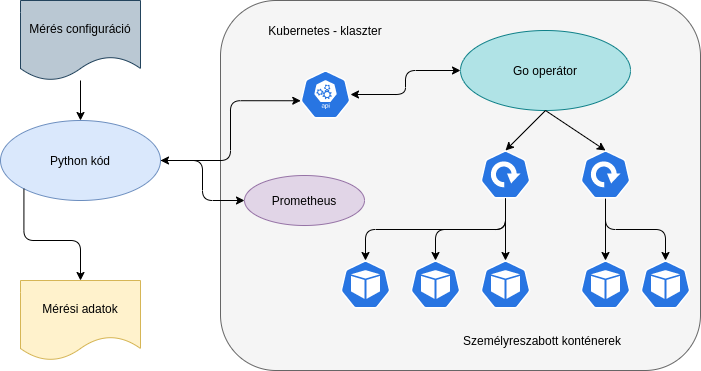
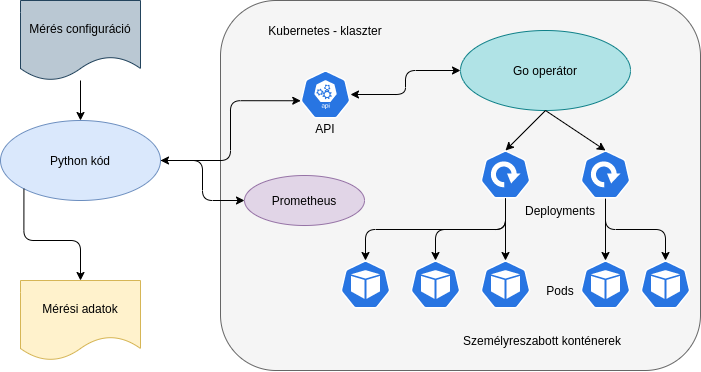
Extend thesis

diff --git a/thesis/content/system.tex b/thesis/content/system.tex
@@ -29,10 +29,10 @@ Az elkészült rendszerhez szükséges részek forráskódjai megtalálhatóak a
 %----------------------------------------------------------------------------
 \section{Korábbi munkák}
 %----------------------------------------------------------------------------
-A korábbi projekttárgyak keretén belül már foglalkoztam hasonló kérdéskörrel, így már volt az egyes eszközök használatához tapasztalat és implementáció is, amiből tovább lehetett haladni. 
-Önálló labor tárgyban megismerkedtem a Go programozási nyelvvel, és elkészítettem egy Kubernetes operátort, ami képes egyedi erőforrás definíciók feldolgozására és ez alapján képes beépített objektumokat létrehozni.
+A korábbi projekttárgyak keretén belül már foglalkoztam hasonló kérdéskörrel, így már volt az egyes eszközök használatához tapasztalat és implementáció is, amiből ki lehetett indulni. 
+Önálló labor tárgyban megismerkedtem a Go programozási nyelvvel, és elkészítettem egy Kubernetes operátort, ami képes egyedi erőforrás definíciók feldolgozására és ez alapján képes beépített objektumokat létrehozni. A félév elején elején ezt tovább kellett bővíteni, hogy képes legyen skálázót is létrehozni valamint javítani kellett a megbízhatóságán is.
 
-Korábban készítettem már egy Docker képfájl is, ami a jelenlegi rendszerben felhasználttal azonos céllal született, hogy szabadon konfigurálható paraméterezés alapján szolgálja ki a beérkező kéréseket.
+Korábban készítettem már egy Docker képfájl is, ami a jelenlegi rendszerben felhasználttal azonos céllal született, hogy szabadon konfigurálható paraméterezés alapján szolgálja ki a beérkező kéréseket. Az így megírt Go alapú webszervert is a félév során tovább kellett bővíteni, személyreszabni, hogy a valósághűbb eredményeket szolgáltasson.
 
 %----------------------------------------------------------------------------
 \section{Operátor}
@@ -40,9 +40,17 @@ Korábban készítettem már egy Docker képfájl is, ami a jelenlegi rendszerbe
 Fontos szempontnak tekintettük, hogy egyszerű konfigurációs fájl alapján létre lehessen hozni a szolgáltatáshálót, amit szeretnénk tesztelni. 
 Mivel a Kubernetes fejlesztők tudták, hogy nem tudnak minden igényt kiszolgálni gondoltak arra, hogy a rendszer könnyen kibővíthető legyen. Az operátorok pont erre valóak. Létrehozásukkal külön logikát tudunk implementálni, ami egy egyedi Kubernetes erőforrás objektumra figyel. 
 
-%TODO
+\subsection{Megírása}
+%----------------------------------------------------------------------------
+A klaszter operátorral való kibővítése egy gyakran alkalmazott megoldás, amikor összetettebb alkalmazást vagy logikát kell implementálni. Olyan szinten elterjedt megoldásról van szó, hogy több nyelv és keretrendszer közül lehet választani. Valamint külön weboldal is létezik, ahol össze vannak gyűjtve az egyes alkalmazásokhoz elérhető, korábban megírt operátorok.\citep{operatorhub} A Kubernetes alkalmazási lehetőségei között ezt a megoldást külön mintaként említik.\citep{KubernetesPatterns} 
 
-\subsection{Működése}
+Én a feladat megoldásához az Operator-SDK\citep{operatorSDK} keretrendszerét használtam fel. A keretrendszerrel könnyen írhatunk Kubernetes operátorokat. Ezt megtehetjük Helm, Ansible vagy Go segítségével is. Értelemszerűen a legnagyobb rugalmasságot a Go programozási nyelvvel érhetjük el, itt van lehetőségünk nagyon mély szinten belenyúlni a klaszter működébe. Én is ezt a megoldást választottam a korábbi projekttárgy keretén belül és sikerült megszerezni az alapvető ismeretket. A korábban megírt alkalmazás több hibát is tartalmazott, így a félévben ezeket ki kellett javítani és új funkciókkal bővítettem ki. 
+
+Sajnos nem sok segédanyag érhető el online formában ezért nehéz belekezdeni. Egyedül a korábban mások által megírt operátorok forráskódja tudott jó indulás lenni.
+
+Több megoldás is létezik az elkészült operátorunk futtatására. Futtathatjuk a klaszteren kívülről, mint alkalmazást, illetve a klaszteren belülről is. Utóbbi esetben készíteni kell az alkalmazásunkból egy Docker képfájlt, ami aztán külön kapszulában fog futni. Illetve klaszteren belül lehetőségünk van egy úgynevezett operátor életciklus kezelővel (OLM) is megtenni ezt. Az utóbbi megoldás a legfejlettebb úgy kell elképzelni mint egy külön csomagkezelő csak a klaszteren belül, az operátoroknak. A félévben én a klaszteren kívüli megoldást használtam, mivel az operátort is folyamatosan fejleszetni kellett. 
+
+\subsection{Használata}
 %----------------------------------------------------------------------------
 A \ref{servicegraph_example} kódrészlet mutat egy példát a szolgáltatásháló definíciójára. Számunkra elég végiggondolni, hogy milyen szolgáltatásokat szeretnénk, hogyan kövessék egymást, milyen erőforrást biztosítsunk számukra. Miután ezek megvannak készítünk belőle egy \textit{yaml} dokumentumot.
 
@@ -68,10 +76,23 @@ servicegraph.dipterv.my.domain/servicegraph created
 %----------------------------------------------------------------------------
 \section{Go konténer}
 %----------------------------------------------------------------------------
-A korábban látott módon lehetőségünk van tetszőleges szolgáltaásokat elindítani, azonban hogy az adott szolgáltatásoknak további paraméterek tudjunk átadni, olyan alkalmazás kell ami tudja kezelni őket. Például: milyen végpontokra figyeljenek, milyen kiszolgálási idővel dolgozzanak, mennyi erőforrást használjanak fel. Erre a feladatra létrehoztam külön egy Go alapú webalkalmazást. 
-A paraméterek átadására indításkor van lehetőség és futás közben figyelembe veszi ezeket. Beépítettként tartalmaz egy processzor intenzív algoritmust, amit megadott alkalommal lefuttat egy-egy kérés során. 
+A korábban látott módon lehetőségünk van tetszőleges szolgáltaásokat elindítani, azonban hogy az adott szolgáltatásoknak további paraméterek tudjunk átadni, olyan alkalmazás kell ami tudja kezelni őket. Például: milyen végpontokra figyeljenek, milyen kiszolgálási idővel dolgozzanak, mennyi erőforrást használjanak fel.
+A feladat megoldására létrehoztam egy Go alapú webalkalmazást, mely induláskor átveszi a szükséges paramétereket. A webszerverhez beérkező kérések pedig a megadott paraméterek által specifikált módon fognak végrehajtódni. 
 
-%TODO
+Az alkalmazás elkészítéséhez szintén rendelkezésre állt egy kódbázis, amit tovább kellett fejleszteni. Korábban egy \textit{http} alapú üzenetet küldött vissza az alkalmazás, ami számunkra könnyebben olvasható, azonban a gépek nehezebben kezelik. Így kicsit változtatni kellett a kódon és jelenleg \textit{json} üzenetet kapunk vissza.
+
+Lehetőségünk van a http kérés kiszolgálása közben további webalkalmazások felé továbbkérdezni. Ez a funkció ad lehetőséget, hogy a klaszeteren belül tetszőleges szolgáltatáshálókat valósítsunk meg. Ezt a funkciót is kicsit fejleszteni kellett és az egyes lekérdezéseket aszinkron hívásra cseréltem le. Ezáltal miközben várunk a kint meghívott rendszerek válaszára közben végezhetjük a saját csomópontban a konfigurációban megadott számításokat. 
+
+Az elkészült alkalmazást fel kellett készíteni, hogy a Kubernetesben tudjuk futtatni. Ehhez Docker képfájlt készítettem belőle és miután elláttam a megfelelő címkékkel feltöltöttem\citep{dockerContainer} a Docker Hub oldalra, ami egy ingyenes és publikus konténer adattár. \\
+
+\lstset{caption=Kénténer futtatása és válasza, label=describe_pod}
+\lstinputlisting{figures/describe_pod.sh}
+
+A \ref{describe_pod} sorszámú kódrészleten egy, az elkészült Docker konténert futtató kapszula leírásának részlete látszik. Az indításhoz a korábban látott, \ref{servicegraph_example} kódrészlet konfigurációját használtam fel. Érdemes megfigyelni, hogy az egyes  paraméterek hogyan képződnek le a konténerhez. Például átadásra kerül a szolgáltatás neve, hogy melyik porton fog figyelni, melyik végpontok havására kell válaszolnia és a hozzá tartozó egyéb paraméterek.
+
+A kódrészleten látott második paranccsal létrehozunk egy újabb kapszulát a klaszterben. Látható, hogy interaktív módban indítottuk el, így kaptunk egy felületet, ahonnan lekérdezést lehet indítani a \textit{front-end} kapszula felé. Ez jó megoldás abban az esetben, ha ki szeretnénk próbálni, hogyan működik az alkalmazásunk. A \verb+kubectl run+ parancs alatt látható, hogy a \textit{curl} alkalmazás kérésére milyen választ kaptunk. A válasz \textit{json} formátumban tartalmazza a lekérdezés főbb paramétereit. Látható, hogy melyik végpontra érkezett, milyen konfiguráció van beállítva a végponthoz.
+
+
 
 %----------------------------------------------------------------------------
 \section{Mérés vezénylése}

diff --git a/thesis/content/kubernetes.tex b/thesis/content/kubernetes.tex
@@ -13,9 +13,48 @@ Ahogy egyre többen kezdték megismerni és használni a konténerizációs tech
 
 Ezzel a problémával találkozott a Google is és kezdődött egy platform fejlesztése, ami képes a fenti feladatok megoldására. Eleinte ez a \textit{Borg}\citep{Borg} nevet viselte. Ezt 2014-ben a Google nyílt forráskódúvá tette immáron Kubernetes néven. A projektet a \textit{Cloud Native Computing Foundation (CNCF)} vette gondozásába. Innentől kezdve bárki szabadon elérheti és bele is fejleszthet. Az elmúlt 6 év alatt hatalmas fejlődésen ment keresztül és már a $22$.-ik kiadásánál tart.
 
+Viszonylag fiatal rednszerről van tehát szó, azonban a VMware kutatásából\citep{VMwareSurvey} is sok érdekes dolog bontakozik ki. Egyre többen térnek át a Kubrenetesre és futtatják benne a konténerizált infrastruktúrájukat. Látható, hogy nem egy rövidtávon elmúló trendről van szó és még mindig felívelő ágban van. A kutatásban résztvevők jelentős részére hozott könnyebbségeket főként az erőforrás gazdálkodásban és a fejlesztési ciklusok rövidítésében. Mindössze a megkérdezettek 5\% nem számolt be érezhető előnyről.  
+
 %----------------------------------------------------------------------------
 \section{Felépítése}
 %----------------------------------------------------------------------------
+
+\subsection{Klaszter elemei}
+%----------------------------------------------------------------------------
+Kubernetes alatt általában egy teljes klasztert szoktak érteni. Ennek a rendszernek az egyes részeit és azok feladatát szeretném bemutatni.  
+
+\subsubsection{Csomópontok}
+A legtöbb klaszter több csomópontot (node) tartalmaz. Ezek lehetnek akár egy egész szerver vagy egy szerveren futtatott virtuális gép is. Itt fognak futni a később részletesen tárgyalt kapszulák, amik az alkalmazásunkat valósítják meg. Ezért itt futniuk kell azoknak a szolgáltatásoknak, amik ezt lehetővé fogják tenni. A csomópontok konfigurációját a vezérlő sík (control plane) végzi. A \ref{k8s_nodes} sorszámmal ellátott kódrészleten láthatjuk, hogy az általunk későbbiekben használt klaszter esetében milyen csomópontok vannak. Fontos, hogy az egyes node nevek egymástől különállóak legyenek. 
+
+Feladatkörét tekintve két különböző típusú node lehet. Egyik, ami a vezérlő síkot biztosítja, ő az úgynevett \textit{master} illetve a másik, ahol csak kapszulák futhatnak, ezek a \textit{worker} típusú csomópontok. Látható, hogy a példaként hozott kódrészletben a \verb+dipterv1+ névvel ellátott node van mester szerepben. Az utóbbi időben egyre jobban elmosódott a határvonal és több csomóponton van megvalósítva a vezérlő sík, illetve ezeken is lehet kapszulákat futtatni. Valamint a hivatalos dokumentációból fokozatosan tűnik el a master/worker megnevezések.\\
+
+\lstset{caption=Később használt klaszter csomópontjai, label=k8s_nodes}
+\lstinputlisting{figures/kubectl_get_nodes.sh}
+
+Az egyes csomópontoknak biztosítani kell, hogy futhassanak rajtuk kapszulák. Ezért minden egyes node rendelkezik az alábbi komponsensekkel:
+
+\paragraph{Kubelet} Minden node rendelkezik egy \textit{kublet} nevű ügynökkel, akinek a feladat, hogy az adott csomópontra ütemezett konténerek rendesen, az elvárt módon fussanak. Ezt úgy tudja megtenni, hogy az API szerveren keresztül kap egy pod leírót és az abban leírtak alapján kezeli a konténereket. Ezen felül feladata, hogy az általa összegyűjtött információkat jelentse a vezérlő sík felé, ezzel lehetővé téve az új konténerek ütemezését csomópontokra. 
+
+\paragraph{Kube-proxy} A \textit{kube-proxy} szintén része minden csomópontnak, ahogy az a \ref{fig:k8s_components} ábrán is látszik. Ezen komponenes feladata az adott node hálózatát karban tartani. Ezt úgy tudja megtenni, hogy operációs rendszer szintjén hoz létre és tartja karban a hálózati csomagokra vonatkozó szabályokat.
+
+\paragraph{Konténert futtató környezet} Mivel az egyes kapszulák konténereket tartalmaznak ezért szükség van egy olyan környezetre, ami képes futtatni ezeket a konténereket. Mai napig a legelterjedtebb a Docker, de a Kubernetes ezen kívül még másokat is támogat. 
+
+% Kubernetes cluster components ---------------------------------------------
+\begin{figure}[!ht]
+\centering
+\includegraphics[width=150mm, keepaspectratio]{figures/kubernetes_components.png}
+\caption{Kubernetes klaszter elemei\citep{KubernetesComponents}}
+\label{fig:k8s_components}
+\end{figure}
+
+\subsubsection{Vezérlő sík}
+A Kubernetesen belül a vezérlő sík felelős a klaszteren belüli döntésekért. Feladata például meghatározni, hogy az újonnan létrehozandó kapszulák melyik csomóponton induljanak el. A \ref{fig:k8s_components} ábrán is láthatjuk a vezérlő síkot kék szaggatott vonnallal keretezve.
+
+\paragraph{API szerver} A klaszter központi egysége. Minden művelet rajta keresztül történik. Ő felelős a beérkező kérések hitelesítéséért és továbbításáért a megfelelő rendszerelemek felé. Például a \verb+kubectl+ parancs használatakor is az történik, hogy a kliensünk összeállít és elküld egy üzenetet az API szerverhez, ami megkapja és válaszol rá.
+
+\paragraph{Etcd} Az \textit{etcd} komponense a vezérlő síknak egy elosztott módon működő\citep{raft} kulcs-érték párokat tartalmazó adatbázis. Itt tárolja a klaszter összes saját tulajdonságát, például az egyes objektumok állapotait is. Ezáltal a korrábi példaként említett \verb+kubectl+ lekérdezésünk is ebből az adatbázisból kiolvasott értékeket fogja megkapni.
+
+\paragraph{Ütemező} Az ütemező (\textit{kube-scheduler}) feladata, meghozni a döntést, hogy egy új pod melyik csomóponton kerüljön létrehozásra. Ez egy igazán izgalmas feladat, hiszen figyelembe kell vennie a rendszer jelenlegi foglaltságát, illetve a kapszula létrehozásakor külön meg lehet adni megkötéseket a node felé. Ilyen megkötés vonatkozhat a csomópont szoftverére vagy hardverére is. 
 
 %TODO erőforrások: CPU és memoria
 \subsection{Erőforrások}
@@ -42,6 +81,7 @@ paramétereket és ezalapján választja ki, hogy melyik csomóponton fog futni.
 A Kubernetes egyik erőssége, hogy az átlagos felhasználás esetében nem kell törődni a rendszer felépítésével, hiszen nekünk csak deklaratív módon meg kell létrehozni és kezelni bizonyos erőforrásokat, objektumokat.
   
 \paragraph{Pod (kapszula)}
+%\label{par:pod}
 A Kubernetesben megjelenő legkisebb egység. Általában egy konténert futtat, de lehetőségünk van több konténer futtatására is. Általánosságban elmondható, hogy rendszeresen létrejönnek és rendszeresen törölve is lesznek ezek az objektumok, tehát nem tartós életűek. Ez az egész rendszernek tud adni egy 
 
 \paragraph{ReplicaSet} 
@@ -63,7 +103,7 @@ leírásokat hozzunk létre és ezt egy logika deklaratív módon feldolgozza.
 %----------------------------------------------------------------------------
 \section{Skálázás}
 %----------------------------------------------------------------------------
-A felhős infrastruktúra egyik legcsábítóbb előnye, hogy az alkalmazásunk képes adaptálódni a külvilág felől érkező kérésekhez. Ez azt jelenti, hogy ha több felhasználót kell egyszerre kiszolgálni, akkor a rendszer automatikusan növeli a kiszolgálásra fordított erőforrások mennyiségét. Ezzel a megoldással elérhetjük, hogy a végfelhasználó ne vegyen észre minőségbeli csökkenést és a kevésbé intenzív időkben pedig nem foglalunk feleslegesen erőforrást, ami az üzemeltetőnek is jól belátható anyagi érdeke.
+A felhő alapú infrastruktúra egyik legcsábítóbb előnye, hogy az alkalmazásunk képes adaptálódni a külvilág felől érkező kérésekhez. Ez azt jelenti, hogy ha több felhasználót kell egyszerre kiszolgálni, akkor a rendszer automatikusan növeli a kiszolgálásra fordított erőforrások mennyiségét. Ezzel a megoldással elérhetjük, hogy a végfelhasználó ne vegyen észre minőségbeli csökkenést és a kevésbé intenzív időkben pedig nem foglalunk feleslegesen erőforrást, ami az üzemeltetőnek is jól belátható anyagi érdeke.
  
 Alapvetően két különböző skálázási módszert lehet elkülöníteni. Az egyik a vertikális, míg a másik a horizontális skálázás. Ezekről a későbbiekben bővebben lesz szó. 
 
@@ -107,7 +147,8 @@ szolgáltatás esetén nem túl előnyös, hiszen ezidő alatt kevesebb egység 
 % Skálázás módjai ábra -------------------------------------------------------
 \begin{figure}[!ht]
 \centering
-\includegraphics[width=150mm, keepaspectratio]{figures/scaling_types.png}
+\includegraphics[width=100mm, keepaspectratio]{figures/scaling_types.png}
 \caption{Vertikális és horizontális skálázás}
 \label{fig:scaling}
 \end{figure}
+

diff --git a/thesis/content/measurements.tex b/thesis/content/measurements.tex
@@ -19,7 +19,7 @@ Amikor a fejlesztési rész kezdett alábbhagyni kellett egy rendes környezet, 
       \item \textbf{VM igénylés a koliban}: A Schönherz kollégiumban lévő Kollégiumi Számítástechnikai Körtől lehet igényelni virtuális gépeket, így sikerült lebeszélni, hogy a projektfeladat végéig biztosítanak számomra három gépet. Hátrány lehet, hogy öntevékeny a kör így probléma esetén kérdéses a megoldás gyorsasága. 
 \end{itemize}		
 
-A fenti opciók közül számomra a harmadik volt a legszimpatikusabb így kaptam is három teljesen új virtuális gépet. Telepítéshez a Debian (v10 - Buster) operációs rendszert választottam, mert stabil, megbízható és széles körben támogatott. 
+A fenti opciók közül számomra a negyedik volt a legszimpatikusabb így kaptam is három teljesen új virtuális gépet. Telepítéshez a Debian (v10 - Buster) operációs rendszert választottam, mert stabil, megbízható és széles körben támogatott. 
 
 \begin{center}
 \begin{tabular}{ c||cccc| } 
@@ -104,17 +104,28 @@ Fontos szempont volt, hogy minél könnyebben használható legyen az alkalmazá
 Az alkalmazás indításakor meg kell adni, hogy hova vannak mentve a korábbi mérések során készült kimeneti fájlok. Itt egy-egy mérés jelentése, hogy a Fortio adott darabszámú lekérdezést generál másodpercenként fix ideig. Tehát egy teszteset futtatása több ilyen értelemben vett mérést tartalmaz, hiszen egy skálán megy végig a rendszer, ahol a minimális QPS értéktől megadott lépésközzel halad a maximális QPS értékig. 
 Egyesével elkezdi beolvasni a mérési eredményeket és minden fájlból készít egy "tisztázott" eredményt. Ebben már csak az adott grafikon kirajzolásához nélkülözhetetlen értékeket tartalmazza. Például előfordul, hogy a Prometheus eredményében szerepel olyan pod is, ami nem vett részt az adott mérésben, mert még a korábbiból maradt ott. Az ilyen eseteket észlelni kell és kiszedni az értékeit, ne okozzanak anomáliákat. 
 
-A kapott eredményekből készült grafikon látható az \ref{fig:example_plot} ábrán. A mérések során a szolgáltatáshálóban két különböző feladatot ellátó szolgáltatás szerepelt. Volt egy kintről elérhető \textit{front-end} szolgáltatást szimuláló egység, ami a feltevéseink alapján nem használt sok erőforrást, és minden hozzá beérkező kérést továbbított a \textit{back-end} felé, ami viszont a szimulációban egy processzorigényes műveletet hajtott végre. 
+A kapott eredményekből készült grafikon látható az \ref{fig:example_plot} és \ref{fig:example_responsetime} ábrán. A mérések során a szolgáltatáshálóban két különböző feladatot ellátó szolgáltatás szerepelt. Volt egy kintről elérhető \textit{front-end} szolgáltatást szimuláló egység, ami a feltevéseink alapján nem használt sok erőforrást, és minden hozzá beérkező kérést továbbított a \textit{back-end} felé, ami viszont a szimulációban egy processzorigényes műveletet hajtott végre. 
 
-A kapott ábráról leolvasható, hogy az átlagos válaszidő a mérés során nem változott érdemben. A mérés során nem vittünk a rendszerbe mesterséges késleltetést, csak a kötelező műveletek elvégzését vártuk meg. Látható, hogy a kevésbé erőforrás-igényes \textit{front-end} processzor felhasználása lassan de folyamatosan nő egészen addig, amíg a \textit{back-end} is tudja növelni a processzor felhasználását. Ez körülbelül 125 QPS-ig tart. Érdemes figyelembe venni, hogy az $X$ tengely az igényelt lekérdezések darabszámát mutatja, nem a rendszer által valóságban kiszolgált kérések mennyiségét. \\
+A kapott \ref{fig:example_responsetime} ábráról leolvasható, hogy az átlagos válaszidő a mérés során nem változott érdemben, végig kellően alacsony maradt. Fontos megjegyezni, hogy a mérés során nem vittünk a rendszerbe mesterséges késleltetést, csak a kötelező műveletek elvégzését vártuk meg, így jött ki az állandó válaszidő.
+
+A másik, \ref{fig:example_plot} grafikonon látható, hogy a kevésbé erőforrás-igényes \textit{front-end} processzor felhasználása lassan de folyamatosan nő egészen addig, amíg a \textit{back-end} is tudja növelni a processzor felhasználását. Ez körülbelül 125 QPS-ig tart. Ilyenkor a \textit{back-end} eléri az indításkor beállított erőforrás limitációt és emiatt nem tud több beérkező igényt kiszolgálni.  Emiatt a felhasználói forgalmat generáló Fortio sem fog tudni több kérést a rendszer felé küldeni, mert meg kell várja, mire a front-end válaszol, de a front-end csak azután válaszol, hogy meghívta a végeletkig megterhelt back-end szolgáltatást.
+
+Érdemes figyelembe venni, hogy az $X$ tengely az igényelt lekérdezések darabszámát mutatja, nem a rendszer által valóságban kiszolgált kérések mennyiségét. \\
 
 
-% Generált példa ábra -------------------------------------------------------
+% Generált példa ábrák -------------------------------------------------------
 \begin{figure}[!ht]
 \centering
-\includegraphics[width=150mm, keepaspectratio]{figures/example_plot.jpg}
-\caption{\textit{Front-end} és \textit{back-end} egységből álló rendszer eredménye}
+\includegraphics[width=150mm, keepaspectratio]{figures/sample_plot_cpu.jpg}
+\caption{\textit{Front-end} és \textit{back-end} egységből álló rendszer CPU felhasználása}
 \label{fig:example_plot}
+\end{figure}
+
+\begin{figure}[!ht]
+\centering
+\includegraphics[width=150mm, keepaspectratio]{figures/sample_plot_responsetime.jpg}
+\caption{\textit{Front-end} és \textit{back-end} egységből álló rendszer átlagos válaszideje}
+\label{fig:example_responsetime}
 \end{figure}
 
 
@@ -125,4 +136,4 @@ Az eredmények megjelenítésén még lehetne finomítani, mivel jelenleg egy gr
 
 Illetve érdemes elgondolkodni, hogyan kellene kezelni az esetet, ha a rendszer nem tudja kiszolgálni az elvárt lekérdezéseket. Több megoldás is szóba jöhet. Egyik, hogy már a mérések végzése folyamán figyeljük és ha nem tudja teljesíteni, akkor idő előtt leállítjuk a terheléseket. Másik, hogy az $X$ tengelyen a valódi, kiszolgált QPS értéket jelenítjük meg. Ezzel annyi gond lehet, hogy elveszítjük az információt, hogy az adott mérésnél a rendszer már túlterhelt állapotban volt és emiatt vagy alapból ennyi kéréssel terheltünk. Harmadik megoldás, hogy az $X$ tengelyen lévő értékeket addig ábrázoljuk, amíg elvárt módon futottak a mérések.
 
-Másik apróság, ami segítene az eredmények vizualizációjában, ha külön címkét kapna a válaszidő az $Y$ tengelyen.  
+Másik apróság, ami segítene az eredmények vizualizációjában, ha a felhasznált erőforrások és a hozzá kapcsolódó válaszidő egy ábrán lenne, viszont ehhez külön $Y$ tengely fog kelleni, hiszen más a mértékegysége.  

diff --git a/thesis/content/publications.tex b/thesis/content/publications.tex
@@ -12,7 +12,9 @@ A legátfogóbb ismertető a témában \emph{Cloud resource management: A survey
 
 Az alkalmazás mélyebb megismerésével lehetőségünk van előrejelzéseket adni a viselkedésére és ezáltal az erőforrás felhasználást is ügyesebben kezelni. Kritizálják, hogy a legtöbb kutatás elég szűk területet érint és nagyon specifikus kérdéskört vizsgál, miközben figyelmen kívül hagyja a felhős környezet változékonyságát és a valóságnál statikusabb rendszerként vannak kezelve. 
 
-Ötleteket is tudunk meríteni, hogy milyen értékeke érdemes a mérések során figyelembe venni. Példának hozza a processzor, memória, I/O lemez késleltetések, válaszidő, áteresztő képesség. Utóbbi kettő rendszeresen előfordul a szolgáltatási szint megállapodásokban (SLA), ami a felhasználó által érzékelhető szolgáltatási szint (QoE) alapjának is tekinthető. 
+Ötleteket is tudunk meríteni, hogy milyen értékeke érdemes a mérések során figyelembe venni.
+Példaként említi  a processzor, memória, I/O lemez késleltetések, válaszidő, áteresztő képesség
+mérését. Utóbbi kettő rendszeresen előfordul a szolgáltatási szint megállapodásokban (SLA), ami a felhasználó által érzékelhető szolgáltatási szint (QoE) alapjának is tekinthető. 
 Ezek a tulajdonságok vannak összefoglalva a \ref{fig:applicationprofiling} ábrán, ami szintén a cikkben jelent meg.
 
 Gyakran elfelejtődik, de a cikkben hangsúlyozva van, hogy a rendszer monitorozása, döntéshozás és közbeavatkozás önmagukban is jelentenek valamekkora plusz költséget. \\
@@ -30,13 +32,18 @@ Korábban már a tanszéken is foglalkoztak Kubernetesben történő skálázás
 
 A diplomaterv későbbi részében érdekes eredményeket kaphatunk, ha összehasonlítjuk ezt a megoldást a Kubernetes alapértelmezett skálázásával egy komplexebb szolgáltatásháló esetén.
 
-Több cikk\cite{AdaptiveScalingOfPods}\citep{PredictingUsageAndProactiveScaling} is említést tesz arról, hogy a jelenlegi módszertan alapján nehéz eltalálni az optimális erőforrás értékeket és ezzel együtt a skálázást. Ez főként onnan jön, hogy jelenleg a skálázók kevés logikával és metrikával működnek, ezért indításukkor, kézzel kell megadni a szükséges értékeket. Ez igaz az erőforrás felhasználásra is. Ebben az esetben is az alkalmazás üzemeltetőjének kell indítás idejében megadni a paraméterek, amik befolyásolják a kiszolgálás minőségét is. 
+Több cikk\cite{AdaptiveScalingOfPods}\citep{PredictingUsageAndProactiveScaling} is említést tesz
+arról, hogy a jelenlegi módszertan alapján nehéz eltalálni az optimális erőforrás értékeket és ezzel
+együtt a skálázást. Ez főként onnan jön, hogy jelenleg a skálázók kevés logikával és metrikával
+működnek, ezért indításukkor, kézzel kell megadni a szükséges értékeket. Ez igaz az erőforrás
+felhasználásra is. Ebben az esetben is az alkalmazás üzemeltetőja adja meg indítás idejében a
+paramétereket, amik befolyásolják a kiszolgálás minőségét is. 
 
 Érdekes kérdés, ami irodalomkutatás során fogalmazódott meg, hogy a skálázó minél optimálisabb döntéséhez minél több adatra van szükség. Ez bizonyos alkalmazási területek körében problémás lehet. Hogyha az alkalmazás tulajdonosa nem szeretné, hogy megfigyeljék, hogy milyen egyéb szolgáltatásokkal van kapcsolatban, mennyi lekérdezés, felhasználó használja, milyen arányban oszlik meg a terhelés a rendszere egységei között, akkor a végső döntés is kevesebb információ ismerete alapján lesz meghozva. Érdekes kérdéskör ez is, hogy hol van a határa a személyes adatoknak és mennyire lehet ezeket figyelembe venni az optimálisabb erőforrás elosztáshoz.
 
 Több megoldás bontakozott ki a tanulmányozott cikkekből. Vannak olyan megoldások, amik a rendszert fehér dobozként kezelik, amiben minden paraméter kiolvasható és befolyásolható, míg vannak olyanok, amik feketedobozként modellezik az alkalmazásokat és a belső működésük számunkra teljesen fedett.\citep{TowardsAnAdaptive}. Az első esetben van lehetőségünk analitikus modelleket gyártani és ezelapján jósolni, javaslatokat tenni. Utóbbi esetben, jó kiindulási alap lehetnek a gépi tanulásos modellek. Itt megjegyezhető, hogy számontarthatjuk a modellünk bizonyos paraméterek melletti bizonytalanságát mint tényezőt és ezeken helyeken több mérést végezve javítható a modell bizonyossága\citep{TowardsAnAdaptive}.
 
-Elterjedt kutatási terült, hogyan lehet ilyen jellegű feladatok megoldásában segítségül hívni a neurális-hálózatokat, illetve egyéb gépi-tanulásos modelleket. Ilyen modell lehet például a Markov-láncok, ami képesek a valós rendszerekben megfigyelhető periodicitásokat figyelembe venni\citep{CloudScale}. Ilyen ismétlődés több nagyságrendben is elképzelhető, például egy napon belül is létezik, de létezhet nagyobb távlatban, például az évszakkal összefüggően is\citep{PredictingUsageAndProactiveScaling}.
+Elterjedt kutatási terület, hogyan lehet ilyen jellegű feladatok megoldásában segítségül hívni a neurális-hálózatokat, illetve egyéb gépi-tanulásos modelleket. Ilyen modell lehet például a Markov-láncok, ami képesek a valós rendszerekben megfigyelhető periodicitásokat figyelembe venni\citep{CloudScale}. Ilyen ismétlődés több nagyságrendben is elképzelhető, például egy napon belül is létezik, de létezhet nagyobb távlatban, például az évszakkal összefüggően is\citep{PredictingUsageAndProactiveScaling}.
 
 
 

diff --git a/thesis/content/introduction.tex b/thesis/content/introduction.tex
@@ -22,11 +22,11 @@ Az érem másik oldala viszont az, hogy aki időben észreveszi a lehetőséget,
 Erre jó példa az Amazon\citep{amazon} és a Netflix\citep{netflix} is.  
 
 Egyre szélesebb körben terjednek el a konténerizációs technológiák és vele együtt az úgynevezett mikro-szolgáltatások.
-A paradigma értelmében a korábbi nagyobb kódegységeket szét lehet bontani több kisebb kódbázisra, ami így számtalan előnyt jelent az alkalmazás fejlesztéséhez.
-A kisebb egységeket könnyebb megérteni, így könnyebb új tagoknak becsatlakozni a fejlesztésbe, nem kell rögtön egyben látnia a rendszert.
-Valamint lehetőséget biztosít, hogy több nyelven, keretrendszerben legyenek megoldva az alfeladatok. 
-Ezáltal minden lépéshez a számára legelőnyösebb környezetet lehet megválasztani. 
-Valamint ha egy komponenst szeretnénk teljesen elölről fejleszteni, akkor az a rendszer többi részét nem érinti.
+A paradigma értelmében a korábbi nagyobb kódegységeket szét lehet bontani több kisebb kódbázisra, ami számtalan előnyt jelent az alkalmazás fejlesztéséhez.
+Mivel a kisebb egységeket könnyebb megérteni mint a teljes kódbázist, az új fejlesztők számára könnyebb becsatlakozni fejlesztésbe.
+A kisebb elemekre bontott kód lehetőséget biztosít arra is, hogy az egyes komponenseket több
+nyelven és többfajta keretrendszerben fejlesszük, minden kmponens számára az optimális fejlesztési környezetet kiválasztva. 
+Végül, ha egy komponenst szeretnénk teljesen előlről újraírni, akkor ez a rendszer többi részét nem érinti.
 Ezek által lehetőség nyílik egy agilis rendszer kialakítására.
 
 A végbemenő tendenciaváltás egyik nagy szereplője a Kubernetes rendszer, ami lehetőséget biztosít a konténerizációs technológia széles körű és egyszerű használatára.
@@ -36,7 +36,7 @@ A végbemenő tendenciaváltás egyik nagy szereplője a Kubernetes rendszer, am
 %----------------------------------------------------------------------------
 A korábban említett paradigma váltással lépést kell tartani az alkalmazás üzemeltetésekor is. 
 Fontos szempont az elkészült, mikro-szolgáltatásokból felépülő hálózat skálázásának kérdése. 
-Ugye sokan választották az új megközelítést, mert ígérete szerint könnyen képes a beérkező kérések okozta terheléssel arányosan skálázódni.
+Sokan választották az új megközelítést, mert ígérete szerint könnyen képes a beérkező kérések okozta terheléssel arányosan skálázódni.
 Ez egy triviális feladat egészen addig amíg az egyes egységeket különálló, másokkal nem összefüggő részként kezeljük.
 Ezt megtehetjük és látszólag legtöbben meg is teszik komolyabb fennakadások nélkül. 
 Azonban a valóság ennél jóval komplexebb. Figyelembe kell venni, hogyan kapcsolódnak egymáshoz a mikro-szolgáltatások, azok milyen és mennyi erőforrást használnak, mi történik a beérkező kérésekkel.
@@ -44,8 +44,10 @@ Látható, hogy pár paramétert bevéve az egyenletbe már nem is könnyű fela
 Különösen megnehezíti a feladatot, ha a rendelkezésre álló erőforrásokat (például: processzor, memória, hálózat, I/O) globálisan optimálisan szeretnénk elosztani, hogy a lehető legjobb kiszolgálást tudja biztosítani a rendszer. 
 
 A diplomatervezés során ezt a kérdéskört kell megismernem és a felmerülő kérdésekre választ keresni. 
-Első lépésként fontos tisztában lenni a használt platformmal, a Kubernetessel megnézni benne milyen skálázási megoldások vannak jelenleg és melyik hogyan van támogatva. 
-Egy konkrét példán keresztül bemutatom a HPA megoldását. 
+Első lépésben szeretném bemutatni a használt környezetet, a Kubernetes felépítését illetve, hogy
+milyen skálázási megoldások léteznek és melyiket hogyan támogatja.
+% Első lépésként fontos tisztában lenni a használt platformmal, a Kubernetessel megnézni benne milyen skálázási megoldások vannak jelenleg és melyik hogyan van támogatva. 
+Konkrét példán keresztül bemutatom a HPA megoldását. 
 
 Egy egyedi keretrendszert kellett összeállítani, ami képes tetszőleges szolgáltatáshálót létrehozni
 Kubernetesen belül és azt lekérdezésekkel terhelni. Ezáltal lehetőségünk nyílik szabadon

diff --git a/thesis/content/summary.tex b/thesis/content/summary.tex
@@ -8,7 +8,22 @@
 \section{Elvégzett munka}
 %----------------------------------------------------------------------------
 
+A félév végére sikerült összeállítani egy olyan keretrendszert, amivel előre leírt konfigurációs
+fájlból kiindulva Kubernetes felett hoz létre egy szolgáltatás-hálót. Az elkészült
+szolgáltatáshálóba különböző mennyiségű felhasználói forgalmat tudunk generálni. Kiszolgálás közben
+folyamatosan monitorozzuk a rendszer terheltségét és egyéb metrikáit. A feladat megoldásához tovább kellett fejleszteni a korábbi operátort és webalkalmazásomat. Ezen felül Python kódokat írtam, ami képes autómatikusan elvégezni a méréseket és az eredményeket vizuálisan megjeleníteni.
+
+A rendszer működésének teszteléséhez igényeltem virtuális gépeket és azok telepítése után összeállítottam egy Kubernetes klasztert. A klaszter telepítését a \textit{Kubeadm} segítségével végeztem, de kipróbáltam a \textit{Kubespray} telepítőt is. 
+
+Az elkészült klaszterben próbaméréseket végeztem, amik sikeresen lefutottak, ezzel bizonyosságot nyert, hogy az egyes elemek nem csak a lokális környezetben képesek együttműködni, hanem a valósághoz közelálló rendszerben is. Az elkészült mérési eredményekből  sikerült kézzelfogható grafikont készíteni. 
+
+A projekt során úgy érzem sikerült a korábbinál mélyebben megismerni a Kubernetes platformot és ezzel egyidőben belátni, hogy olyan mélységei vannak, hogy mindig lesz újabb és újabb terület amit meg lehet ismerni. Ráadásul folyamatosan fejlődnek a keretrendszerben felhasznált egységek, így folyamatosan lehetőség van bővíteni is azokat.
 
 %----------------------------------------------------------------------------
 \section{Továbbhaladás}
 %----------------------------------------------------------------------------
+Megítélésem szerint a félévben egyenletesen sikerült hétről-hétre haladni, azonban folyamatosan bontakozott ki a feladat komplexitása. A diplomaterv hátralevő részében ezeket még tisztázni kell, ezt leginkább sok méréssel és a velük szerzett tapasztalattal lehet megtenni. A nyár folyamán elég idő lesz a mérések elvégzésére különböző szolgáltatáshálókkal illetve a beépített skálázóval. Ezek alapján ki kell alakítani egy analitikus modellt, ami fedi a mérési eredményeket. 
+
+Érdemes lenne kipróbálni egy saját skálázót is, ami a modellünk szerint az eredetinél optimálisabb erőforráselosztást tesz lehetővé. Implementáció után szintén méréseket kell rajta végezni és akkor megállapítható, hogy a felállított modellünk a valóságban is helyettáló-e és milyen hatékonysággal működik a már meglévő rendszerekkel összehasonlítva. 
+
+

diff --git a/thesis/thesis.tex b/thesis/thesis.tex
@@ -22,8 +22,7 @@
 \newcommand{\vikkonzulensCVezeteknev}{}
 \newcommand{\vikkonzulensCKeresztnev}{}
 
-\newcommand{\vikcim}{Felhő alapú alkalmazások automatikus horizontális
-skálázásának vizsgálata} % Cím
+\newcommand{\vikcim}{Felhő alapú alkalmazások automatikus horizontális skálázásának vizsgálata} % Cím
 \newcommand{\viktanszek}{\bmetmit} % Tanszék
 \newcommand{\vikdoktipus}{\msc} % Dokumentum típusa (\bsc vagy \msc)
 \newcommand{\vikmunkatipusat}{diplomatervet} % a "hallgató nyilatkozat" részhez: szakdolgozatot vagy diplomatervet
@@ -48,6 +47,10 @@ skálázásának vizsgálata} % Cím
 %\definecolor{codegray}{rgb}{0.5,0.5,0.5}
 %\definecolor{codepurple}{rgb}{0.58,0,0.82}
 %\definecolor{backcolour}{rgb}{0.95,0.95,0.92}
+
+\lstset{ 
+  basicstyle=\small,        % the size of the fonts that are used for the code
+}
 
 %\lstdefinestyle{mystyle}{
 %    backgroundcolor=\color{backcolour},   
